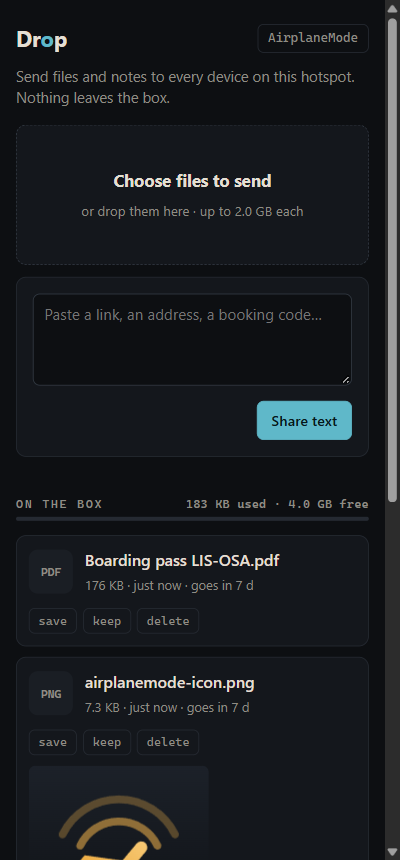
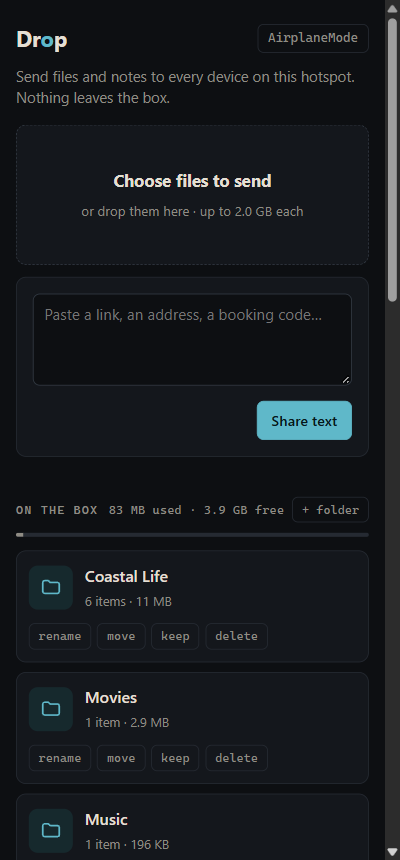
Homepage and installer: about 3.8 GB on the R6S; refreshed screenshots
The first install is now about 3.8 GB on the R6S (Gemma model, platform decision 0018) and
much less on GL.iNet. Landing sign-in, Travel Guide and Drop screenshots retaken.

diff --git a/index.html b/index.html
@@ -322,7 +322,7 @@
           <li data-step="r6s-install">
             <div class="step-head"><h3>Run the installer</h3><label class="check"><input type="checkbox"> done</label></div>
             <div class="step-body">
-              <p>Open a terminal (PowerShell on Windows, Terminal on a Mac), connect with <code class="ssh">ssh root@192.168.2.1</code>, then paste this. It checks the router, installs everything (about 1.8 GB), and prints your admin password at the end.</p>
+              <p>Open a terminal (PowerShell on Windows, Terminal on a Mac), connect with <code class="ssh">ssh root@192.168.2.1</code>, then paste this. It checks the router, installs everything (about 3.8 GB), and prints your admin password at the end.</p>
               <div class="tool-slot"></div>
             </div>
           </li>
